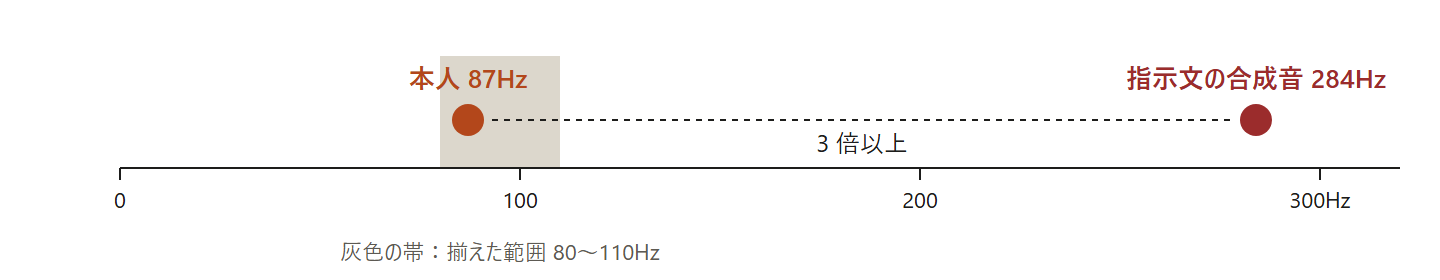
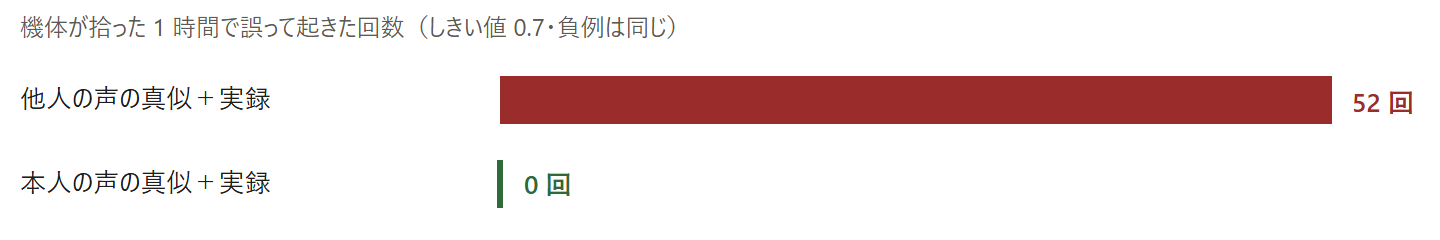
②: 手順の数値（声の高さの範囲・長さの指定と測り方・見本の割合・学習の設定・道具の名前）を本へ回し、結果と効いたことだけ残す。数値を載せていた図 2 枚を外す。冒頭と末尾から BOOTH へ

diff --git a/articles/wakeword-ja-synth.md b/articles/wakeword-ja-synth.md
@@ -13,7 +13,7 @@ published: true
 原因は合成音声そのものではなかった。**本人とは違う声で、本人とは違う長さの「カタノリ」を、中身を確かめずに学習させていた**ことにある。この 3 つを直した版は、機体に向かって本人が呼べば起き、映画を 2 時間流しても 1 度も誤って起きなかった。
 
 :::message
-この記事は、話しかけると答えるロボット「かたのり」（XIAO ESP32S3 ＋ ReSpeaker Lite）の呼び名「カタノリ」を、[microWakeWord](https://github.com/kahrendt/microWakeWord) で機体の中だけで聞き分けるまでの記録から書いている。良し悪しの測り方は「[物差しは現物で録る](https://zenn.dev/n416s/articles/wakeword-ja-measure)」に書いた。
+この記事は、話しかけると答えるロボット「かたのり」（XIAO ESP32S3 ＋ ReSpeaker Lite）の呼び名「カタノリ」を、[microWakeWord](https://github.com/kahrendt/microWakeWord) で機体の中だけで聞き分けるまでの記録から、**何を試して何が効いたか**を書いている。良し悪しの測り方は「[① 物差しは現物で録る](https://zenn.dev/n416s/articles/wakeword-ja-measure)」に書いた。自分の呼び名で最初から通すための手順・設定の値・道具一式は、本と道具箱にまとめて [BOOTH](https://n416.booth.pm/items/8892534) で頒布している。
 :::
 
 :::message alert
@@ -28,11 +28,11 @@ published: true
 :::
 
 :::message
-**手順**
+**流れ**
 1. 本人の録音を集める（呼びかけ数十本と、普段の会話）
 2. 本人の録音を見本にして、声を真似る合成音声で呼び名だけを作る
 3. 長さの指定を、本人の実測に合わせる
-4. 作った物を人が聞いて選ぶ（全部でなくてよい。400 本前後聞けば足りた）
+4. 作った物を人が聞いて選ぶ（全部でなくてよい）
 5. 学習して、[①](https://zenn.dev/n416s/articles/wakeword-ja-measure)の物差し（機体が拾った音）で測る
 :::
 
@@ -43,12 +43,9 @@ published: true
 
 ## 1. 声を本人に合わせる
 
-最初は、指示文で声の性質を決める読み上げ（「落ち着いた中年男性の声」のように書く）を 84 通り使った。合成音の試験では 8 割前後当たったが、本人の録音では 0/11 だった。声の高さを測って理由が分かった。
+最初は、指示文で声の性質を決める読み上げ（「落ち着いた中年男性の声」のように書く）を 84 通り使った。合成音の試験では 8 割前後当たったが、本人の録音では 0/11 だった。声の高さを測って理由が分かった。指示文の声は女性と子どもに偏っていて、**本人より 3 倍以上高かった**。
 
-![声の高さの中央。本人 87Hz、指示文で作った合成音 284Hz。作り直しで揃えた範囲は 80〜110Hz](/images/02-synth-2.png)
-*声の高さの中央。指示文の 84 通りは女性と子どもの声に偏っていた。*
-
-指示文の声は女性と子どもに偏っていて、本人より 3 倍以上高かった。では高さを揃えればよいかというと、そうでもない。80〜110Hz の声だけに絞って 753 本ずつで作り直すと、本人の録音 28 本への当たりは次のとおりだった。
+では高さを揃えればよいかというと、そうでもない。本人と同じ高さの声だけに絞って作り直しても、結果はこうだった。
 
 | 作り方（高さは同じ範囲） | 本人の録音 28 本 |
 |---|---|
@@ -57,36 +54,17 @@ published: true
 
 高さの数字が合っていても、指示文から作った声は実在の声の代わりにならない。**実在の声を参照にして真似る**方式が要る。指示文の声は声優のような声に寄りがちで、低い声ほど、本人の録音を見本にしないと出なかった。本人の録音を見本にしても、本人の高さに入るのは 6 割ほどなので、外れた物は聞いて選ぶ段で落とす。
 
-### 使った道具
+何を見本に渡すかでも、出てくる声が本人に似るかどうかが大きく変わった。普段の会話を切った物がいちばん良く、呼びかけ 1 本では足りず、呼びかけを何本も繋いだ物は逆効果だった。使った読み上げの道具と版、見本の長さと本数、高さの揃え方は本の 6 章に書いた。
 
-[Irodori-TTS](https://github.com/Aratako/Irodori-TTS) の 500M-v3。参照の音声を渡すと、その声で読み上げる（声の模倣）。同じ系統の VoiceDesign の版は参照を受け付けないので、取り違えないこと。
-
-### 見本（参照）の選び方
-
-何を見本に渡すかで、出てくる声が本人に似るかどうかが大きく変わった。作った音の声の高さが本人の範囲に入った割合は次のとおり。
-
-| 見本 | 本人の高さに入った割合 |
-|---|---|
-| 普段の会話を 15 秒に切った物 | **63%** |
-| 呼びかけ 1 本（約 1 秒） | 36% |
-| 呼びかけを何本も繋いだ物 | **17%** |
-
-普段の会話がいちばん良く、呼びかけを繋ぐのは逆効果だった。
-
-> **かたのりの場合**　見本は本人の録音だけで 47 本（呼びかけ 28 本と、会話を切った 19 本）。1 本ごとに見本を順に替え、乱数の種も替えて作った。録音は、画面に「普通に呼ぶ」「1〜2m 離れて呼ぶ」「小声で」「早口で」と出して録る小さなアプリを作って集めた。
+> **かたのりの場合**　見本は本人の録音だけで、呼びかけと会話を合わせて 47 本。1 本ごとに見本を順に替えて作った。録音は、画面に「普通に呼ぶ」「1〜2m 離れて呼ぶ」「小声で」「早口で」と出して録る小さなアプリを作って集めた（道具箱に入っている）。
 
 ## 2. 長さを本人に合わせる
 
 呼び名のような 4 音の短い語では、読み上げに渡す長さの指定がそのまま中身を左右する。ここで 2 度失敗した。
 
-![呼び名の長さ。本人の声の部分は 0.28〜0.74 秒。指定 0.7〜1.0 秒で作ると声の部分が 0.34〜0.78 秒で重なる。1.60 秒指定と指定なし（2.76 秒）は大きく外れる](/images/02-synth-3.png)
-*灰色の帯が本人の呼び名の長さ。指定なしでは余った時間を作り話で埋め、半数ほどに「話があります。まあ、ねえ、方のり。」のような別の発話が入った。*
+1 度目は、本人の呼びかけの長さを、前後の無音を含んだ**ファイルの長さ**で測っていた。声の部分だけを測ると、思っていた半分以下だった。2 度目は長さを指定せずに作った。すると読み上げは余った時間を作り話で埋め、半数ほどに「話があります。まあ、ねえ、方のり。」のような別の発話が入った。長すぎる指定でも、呼び名が 2〜3 倍に伸びる。
 
-本人の呼びかけの声の部分は、中央 0.43 秒（0.28〜0.74 秒・28 本の全数）だった。機体が拾った呼びかけ 4 回も 0.28〜0.46 秒。最初に「1.0〜1.2 秒」と思っていたのは、前後の無音を含んだファイルの長さだった。
-
-### 声の部分の長さの測り方
-
-20ms ごとに音量を取り、「背景より 10dB 上」かつ「いちばん大きい所から 30dB 以内」の区間を声とみなす。150ms までの切れ目はつなぎ、いちばん長い塊の長さを取る。ファイルの端のクリック音を拾う測り方（山の数% を越えた所を探す等）は、実録には使えなかった。
+本人の声の部分の長さに合わせて指定すると、作った音の声の部分も本人と重なった。声の部分の長さの測り方と、指定の値の決め方は本の 6 章に書いた。
 
 :::message
 **量産の前に、少数を作って耳で聞く。** 長さ・音量・高さの数字だけでは、作り話が混ざっていることに気づけない。
@@ -101,31 +79,20 @@ published: true
 これを機械で落とす方法は、3 通り試してどれも使えなかった。
 
 - **音声認識の書き起こしを文字で比べる**：当て字（傾り・肩塗り・肩のリー）になり、正しい物まで落とす。既知の正しい録音 28 本のうち 4 本を「別の語」と判定した
-- **音の距離（MFCC＋DTW）**：良い物 0.361、悪い物 0.348 で区別が付かない
+- **音の距離（MFCC＋DTW）**：良い物と悪い物で数字に差が出ない
 - **音声認識にカタカナで書かせる**：指示をそのまま返し、テレビの音まで「カタノリ」と書く
 
 **短い 1 語が言えているかは、人が聞く以外に確かめる手が無い。** 前後に余計な発話が入っていないかを見るのには、音声認識で足りる。
 
-ただし、作った物を全部聞く必要はない。学習に入れる物を、全部人が聞いた物にすればよい。
+ただし、作った物を全部聞く必要はない。学習に入れる物を、全部人が聞いた物にすればよい。1 本ずつ鳴らして「そのまま使う」「一部を切り取って使う」「捨てる」の 3 つから選ぶだけのページを作った（道具箱に入っている）。切り取るときに気を付けることが 1 つあり、それは本の 7 章に書いた。
 
-### 聞くための道具
-
-1 本ずつ鳴らし、「そのまま使う」「一部を切り取って使う」「捨てる」の 3 つから選ぶだけのページを作った。切り取りでは、範囲の終わりがそのまま音の終わりになるようにする。microWakeWord は**呼び名が音の末尾にある**前提で学習の窓を取るので、呼び名の後ろに言葉が残っていると正例にならない。
-
-> **かたのりの場合**　1,000 本作り、426 本を聞いた所で止めた。使えたのは 408 本（そのまま使う物と、切り取って使う物の合計）。聞いていない残りは学習に入れていない。これに本人の実録 28 本を足して正例にした。
+> **かたのりの場合**　1,000 本作り、426 本を聞いた所で止めた。使えたのは 408 本。聞いていない残りは学習に入れていない。これに本人の実録 28 本を足して正例にした。
 
 ## 4. 学習する
 
-| 項目 | 値 |
-|---|---|
-| 正例 | 本人の声の真似 408 本＋本人の実録 28 本 |
-| 負例 | microWakeWord の本家が配る負例（話し声・会食のざわめき・話し声の無い音）＋本人の普段の会話（重み 6） |
-| 増強 | 背景の雑音を 75% の確率で SNR -5〜10dB、部屋の反響を 50%、音量を -45〜0dB で振る |
-| 学習 | 10,000 歩・学習率 0.001・一度に 128 本・負例の重み 20・窓 1,500ms |
-| 網 | 本家の mixednet（stride 3）。約 2.6 万パラメータ・ESP32-S3 で 1 回 1.8ms |
-| 判定 | 直近 5 回の平均がしきい値 0.7 を越えたら起きる |
+学習は microWakeWord の本家の道具で行う。正例は本人の声の真似と本人の実録、負例は本家が配る物に本人の普段の会話を足し、雑音・反響・音量の増強を掛けた。CPU で 10 分ほどで終わる。それぞれの値と、負例の重みの決め方は本の 8 章に書いた。
 
-日本語の負例は、本人の普段の会話だけである。負例は下の表の 2 行目の版とまったく同じにして、**正例だけを入れ替えた。** それで誤爆が 1 時間 52 回から 0 回になった。負例の効き方は呼び名で違う。同じ手順で作った「ワラビモチ」では、本家の負例 speech（約 3GB）を抜いた版と足した版で、当たりは同じ 4/4、誤爆は 1 時間 1 回前後で変わらなかった。普段の会話やテレビに出にくい呼び名を選んだおかげで、もともと誤爆しにくかったと見ている。カタノリでは、本人の会話を負例に足すと、会話での誤爆が 1 時間 73 回から 0 回（しきい値 0.9）になった。負例を足すかどうかは、自分の環境で誤爆しやすい動画や会話を探し、機体に聞かせて誤爆が出てから決める。
+負例の効き方は呼び名で違う。同じ手順で作った「ワラビモチ」では、本家の負例 speech（約 3GB）を抜いた版と足した版で、当たりは同じ 4/4、誤爆は 1 時間 1 回前後で変わらなかった。普段の会話やテレビに出にくい呼び名を選んだおかげで、もともと誤爆しにくかったと見ている。カタノリでは、本人の会話を負例に足すと、会話での誤爆が 1 時間 73 回から 0 回になった。負例を足すかどうかは、自分の環境で誤爆しやすい動画や会話を探し、機体に聞かせて誤爆が出てから決める（本の 9 章）。
 
 ## 5. 測る
 
@@ -137,10 +104,10 @@ published: true
 | 他人の声の真似＋本人の実録 17 本 | 3/4（1 回目 0.251） | **52 回/時** |
 | **本人の声の真似 408 本＋実録 28 本** | **3/4（1 回目 0.918）** | **0 回/時** |
 
-![機体が拾った 1 時間での誤爆。他人の声の真似に実録を足した版は 52 回、本人の声の真似にした版は 0 回。負例は同じ](/images/02-synth-4.png)
+![機体が拾った 1 時間での誤爆。他人の声の真似に実録を足した版は 52 回、本人の声の真似にした版は 0 回。負例は同じ](/images/02-synth-2.png)
 *変えたのは正例だけ。呼びかけへの当たりは同じ 4 回中 3 回で、1 回目の点数は 0.251 から 0.918 に上がった。*
 
-誤爆は、しきい値を 0.5・0.7・0.9 のどれにしても 0 回だった。学習に入れていない本人の声の真似 1,074 本では、全部が当たった。機体では、映画を 2 時間流して誤爆 0 回、待機のスリープ中に呼んでも起きた。
+誤爆は、しきい値をどう振っても 0 回だった。学習に入れていない本人の声の真似 1,074 本では、全部が当たった。機体では、映画を 2 時間流して誤爆 0 回、待機のスリープ中に呼んでも起きた。
 
 ### 外れだけを残して眺める
 
@@ -155,11 +122,11 @@ published: true
 
 ## この作り方の範囲
 
-他人の声で作った「呼び名に似た並び」1,500 本のうち、267 本は 0.7 を越えた。この作り方で出来るのは、持ち主の声を強く覚えた呼び名で、家族の誰が呼んでも起きる物ではない。持ち主と近い声の人にも反応する。
+他人の声で作った「呼び名に似た並び」1,500 本のうち、267 本はしきい値を越えた。この作り方で出来るのは、持ち主の声を強く覚えた呼び名で、家族の誰が呼んでも起きる物ではない。持ち主と近い声の人にも反応する。
 
 ## この先
 
+- **自分の呼び名で最初から通す**：ここに書いた手順を、呼び名ごとの設定ファイル 1 枚で回せる形にした本（34 ページ）と道具箱（録音アプリ・聞いて選ぶページ・物差しの道具・AI に渡す手順書）。声の高さの揃え方、長さの指定、学習の設定、誤爆が出たときの直し方、機体に載せるまでを書いた：[自分の声で起きる呼び名を作る（BOOTH）](https://n416.booth.pm/items/8892534)
 - 良し悪しを測る物差しの作り方：[① 物差しは現物で録る](https://zenn.dev/n416s/articles/wakeword-ja-measure)
 - 誰の声でも起きる形に挑んで、届かなかった記録と部品：[③ 誰の声でも起きる呼び名へ](https://zenn.dev/n416s/articles/wakeword-ja-general)
 - XIAO ESP32S3 ＋ ReSpeaker Lite で、網に渡す音を取り出す方法：[ReSpeaker Lite の ch1 を呼び名の聞き分けに使う](https://zenn.dev/n416s/articles/respeaker-lite-ch1)
-- この手順を、呼び名ごとの設定ファイル 1 枚で最初から通せる形にした本と道具箱（録音アプリ・聞いて選ぶページ・AI に渡す手順書つき）は、BOOTH で頒布している：[自分の声で起きる呼び名を作る（BOOTH）](https://n416.booth.pm/items/8892534)
